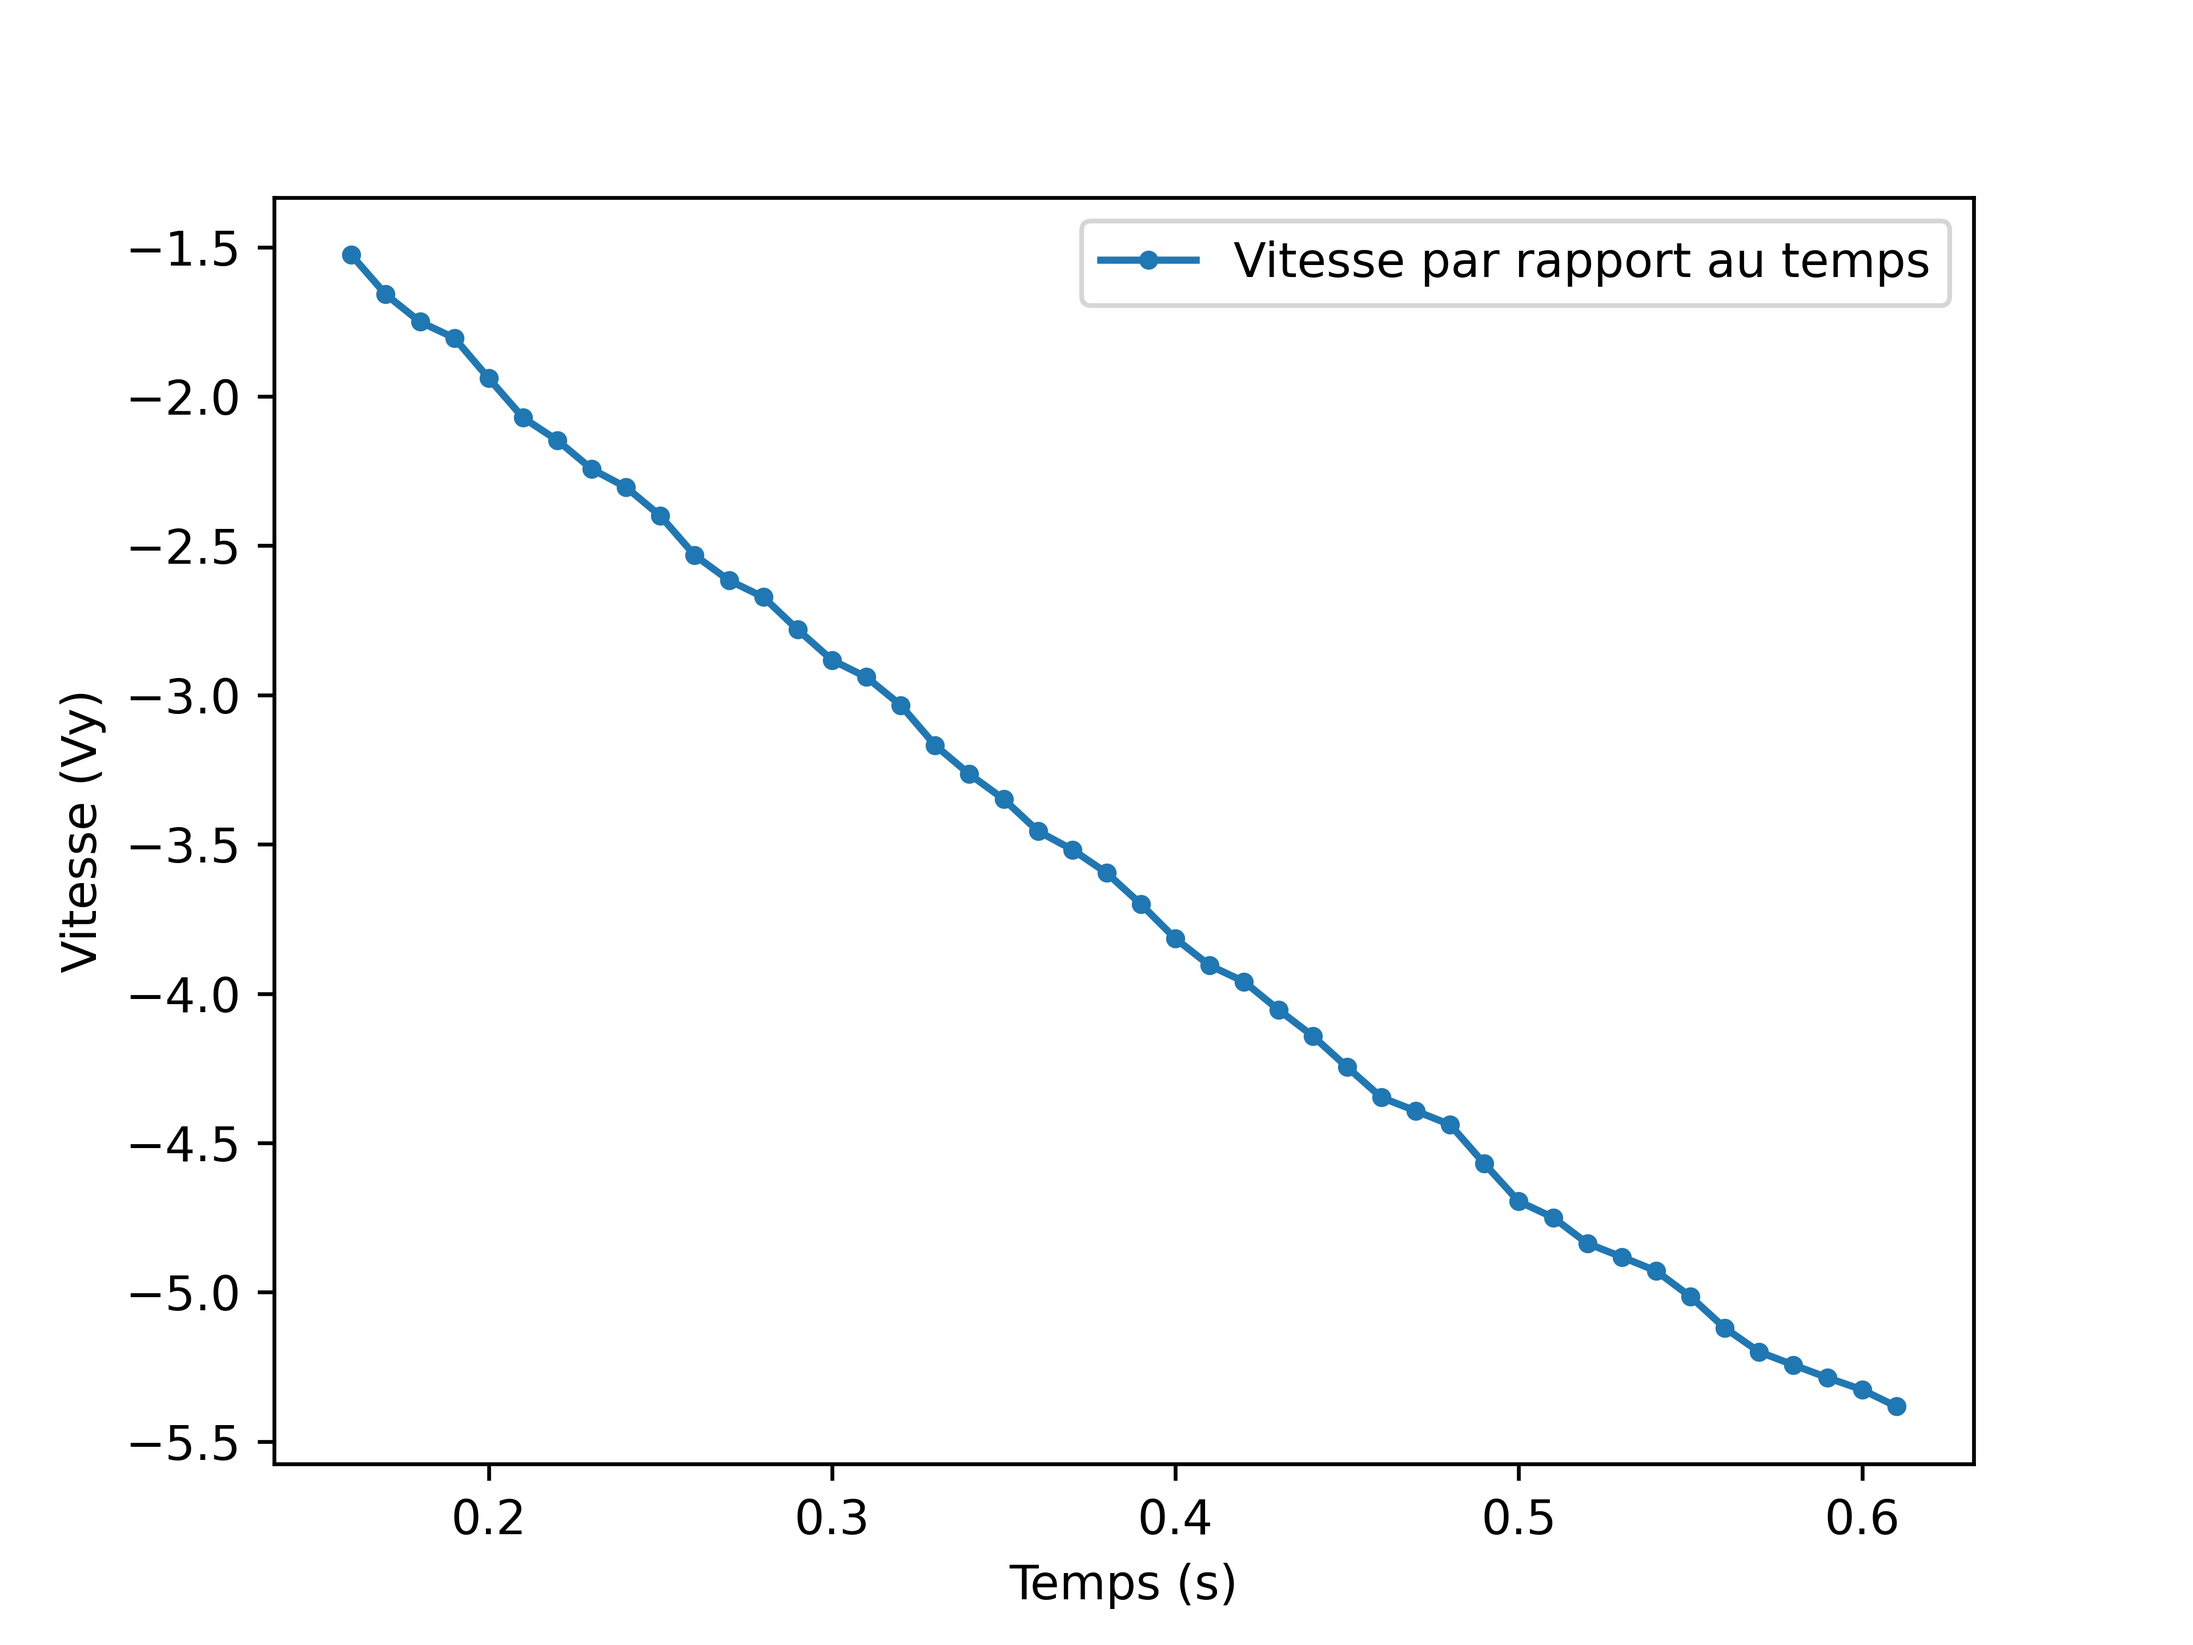
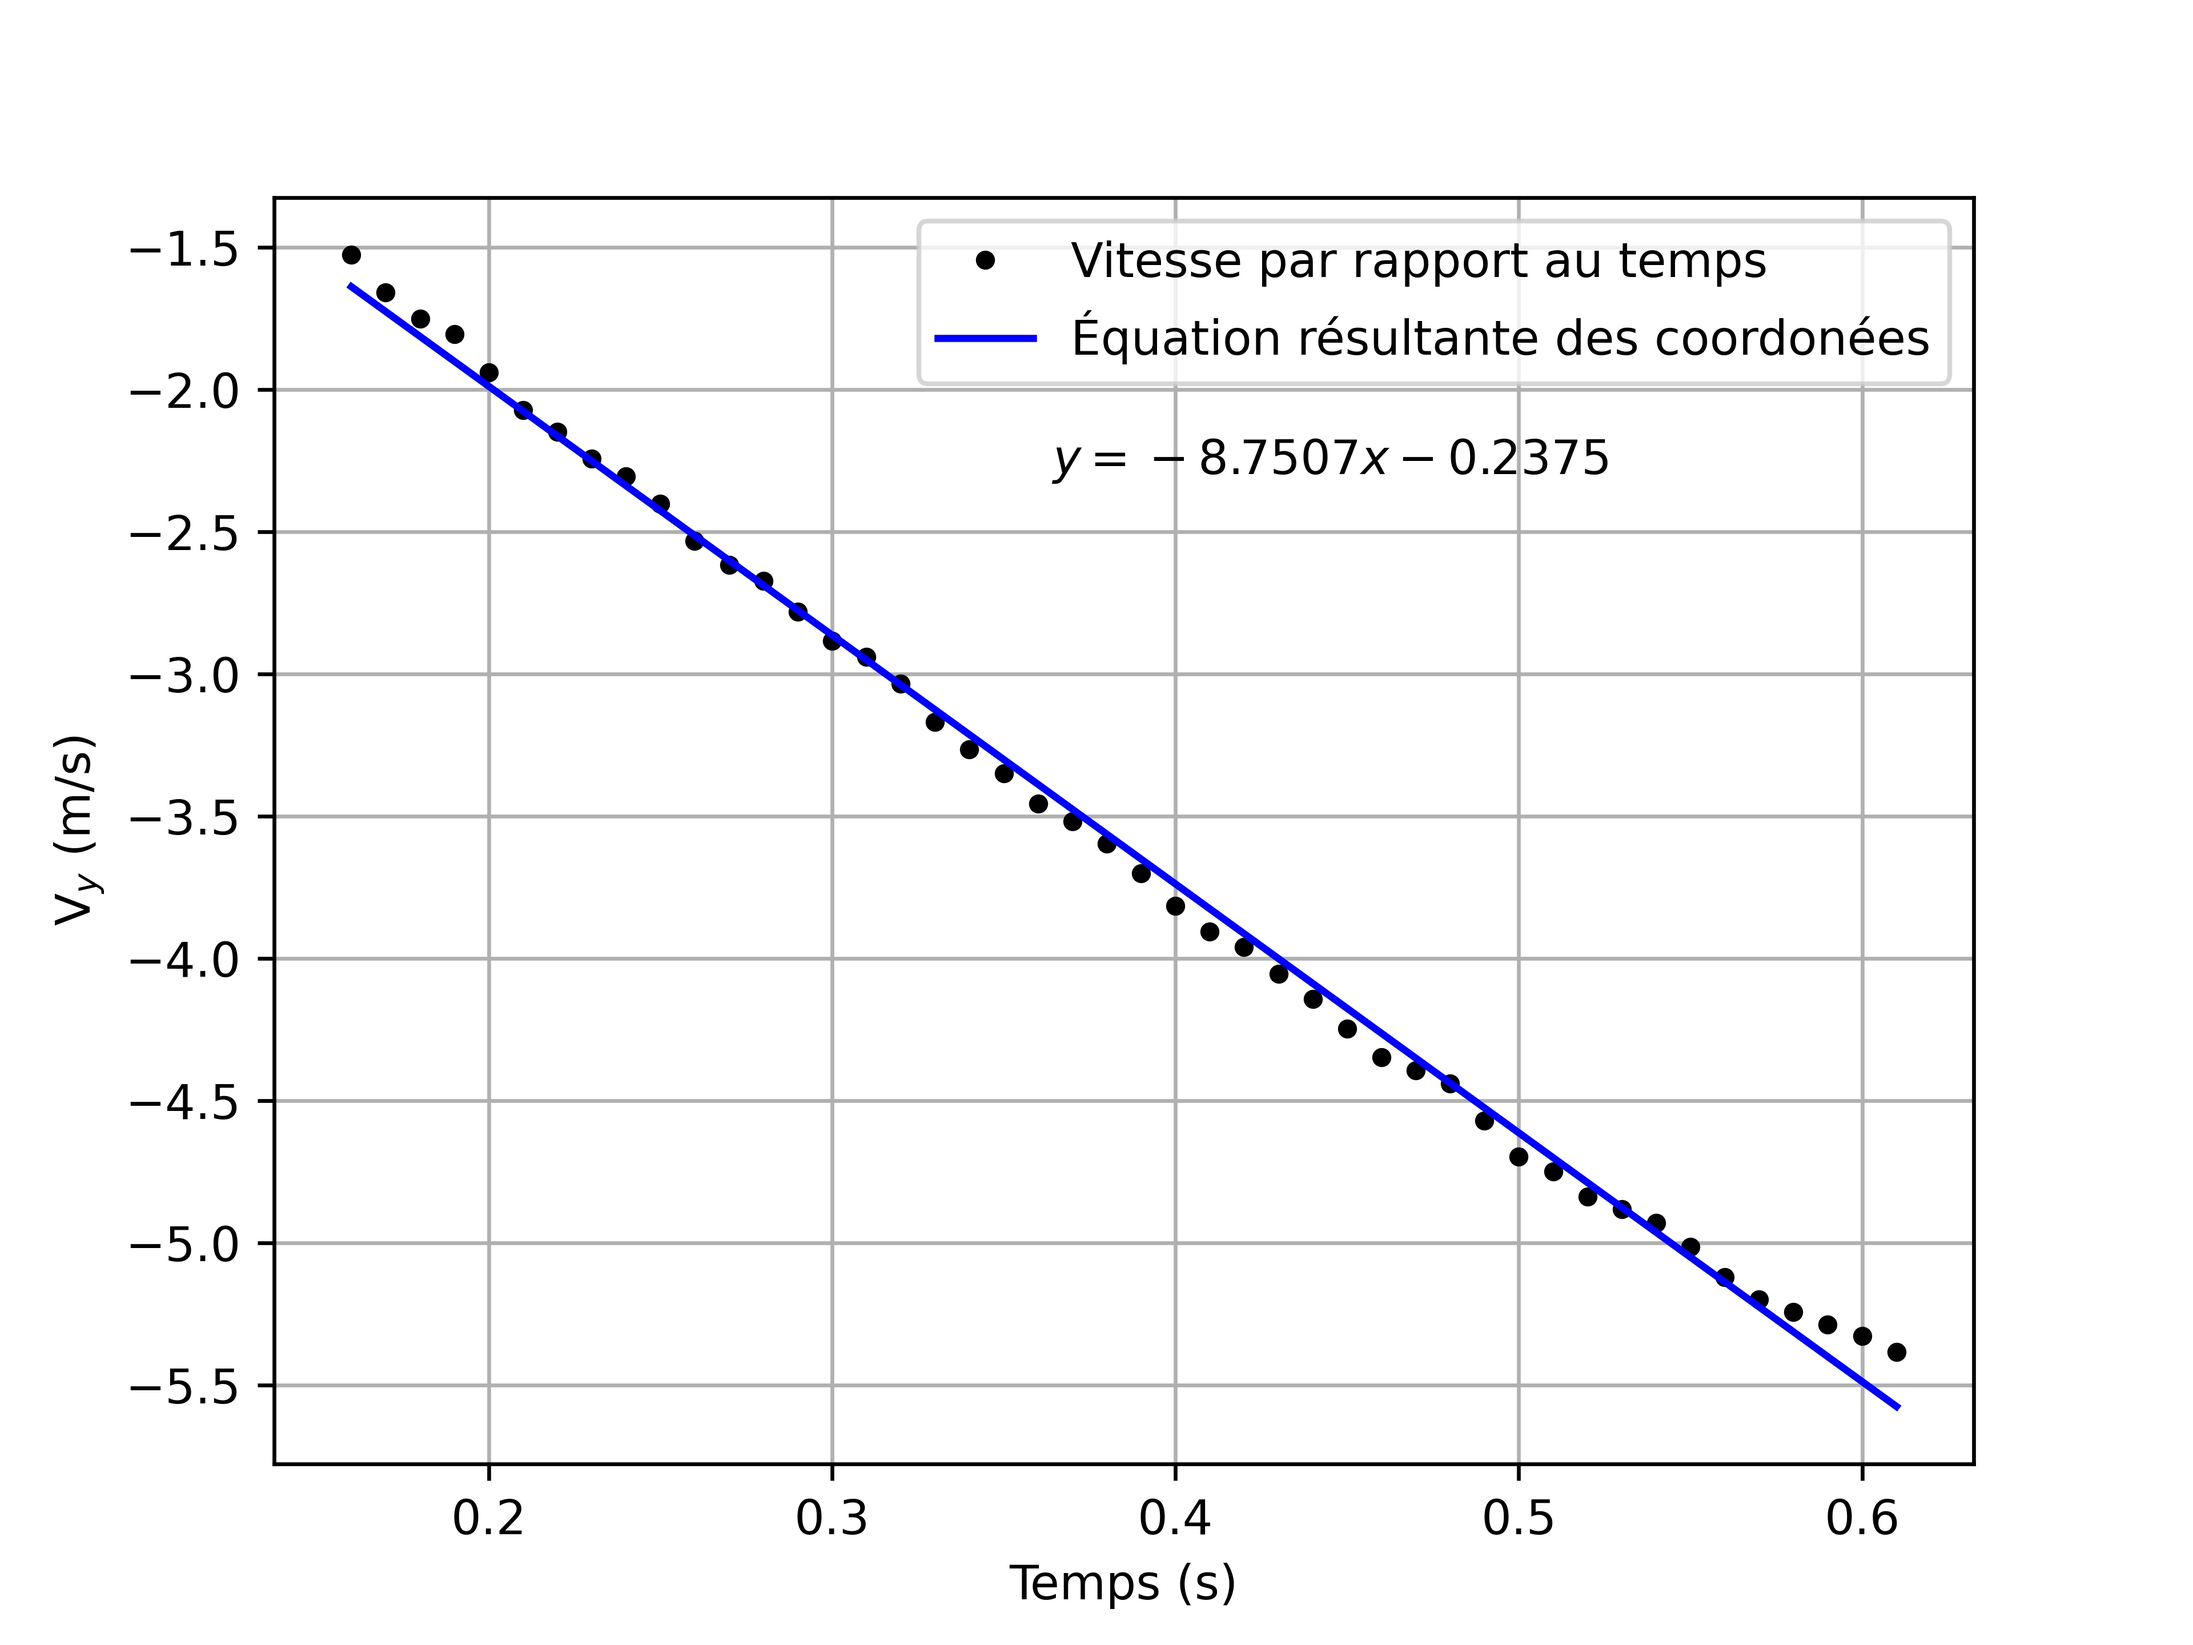
lab chute

diff --git a/Main.py b/Main.py
@@ -2,54 +2,12 @@ from _ast import Lambda
 
 from matplotlib import pyplot as plt
 import math
+import numpy as np
 
-x = [0.16,
-     0.17,
-     0.18,
-     0.19,
-     0.2,
-     0.21,
-     0.22,
-     0.23,
-     0.24,
-     0.25,
-     0.26,
-     0.27,
-     0.28,
-     0.29,
-     0.3,
-     0.31,
-     0.32,
-     0.33,
-     0.34,
-     0.35,
-     0.36,
-     0.37,
-     0.38,
-     0.39,
-     0.4,
-     0.41,
-     0.42,
-     0.43,
-     0.44,
-     0.45,
-     0.46,
-     0.47,
-     0.48,
-     0.49,
-     0.5,
-     0.51,
-     0.52,
-     0.53,
-     0.54,
-     0.55,
-     0.56,
-     0.57,
-     0.58,
-     0.59,
-     0.6,
-     0.61,
-     ]
+from scipy.optimize import curve_fit
+
+x = np.linspace(0.16, 0.61, num=46)
+
 
 y = [-1.526,
      -1.658,
@@ -98,9 +56,26 @@ y = [-1.526,
      -5.327,
      -5.383,
      ]
+
+y2 = -8.7507*x-0.2375
+
+# opt, pcov = curve_fit(gaus, x1, y1, p0=[1, mean, sigma])
+# a, mu, sigma = popt
+# delta_a, delta_mu, delta_sigma = np.sqrt(np.diag(pcov))
+# # R^2
+# residuals = y1 - gaus(x1, *popt)
+# ss_res = np.sum(residuals**2)
+# ss_tot = np.sum((y1-np.mean(y1))**2)
+# r_squared = 1 - (ss_res / ss_tot)
+
+
 plt.figure(1)
-plt.plot(x, y, marker='o', markersize=3, label='Vitesse par rapport au temps')
+plt.plot(x, y, color='k', marker='o', markersize=3, linewidth=0, label='Vitesse par rapport au temps')
+plt.plot(x, y2, color="blue", label='Équation résultante des coordonées')
 plt.xlabel('Temps (s)')
-plt.ylabel('Vitesse (Vy)')
+plt.ylabel('V$_y$ (m/s)')
 plt.legend()
+plt.grid()
+plt.text(0.445, -2.25,'$y = -8.7507x-0.2375$', horizontalalignment='center',
+     verticalalignment='center')
 plt.savefig('num4.jpg', dpi=600)

diff --git a/graph_helper.py b/graph_helper.py
@@ -1,5 +1,7 @@
-from matplotlib.ticker import (MultipleLocator, FormatStrFormatter,
-                               AutoMinorLocator)
+from turtle import pd
+from matplotlib import pyplot as plt
+import curve_fit as curve_fit
+from matplotlib.ticker import (MultipleLocator, FormatStrFormatter, AutoMinorLocator)
 import glob
 import numpy as np
 
@@ -19,3 +21,26 @@ def get_data(path, delimiter):
         allData.append(data)
         allData = np.asarray(allData)
         return allData
+
+
+popt, pcov = curve_fit(gaus, x1, y1, p0=[1, mean, sigma])
+a, mu, sigma = popt
+delta_a, delta_mu, delta_sigma = np.sqrt(np.diag(pcov))
+# R^2
+residuals = y1 - gaus(x1, *popt)
+ss_res = np.sum(residuals**2)
+ss_tot = np.sum((y1-np.mean(y1))**2)
+r_squared = 1 - (ss_res / ss_tot)
+
+def gaus(x, a, x0, sigma):
+    return a*np.exp(-(x-x0)**2/(2*sigma**2))
+
+fit_param = []
+
+## Fig1
+df1 = pd.read_csv('gaussien.csv', sep=";", header=1)
+x1 = df1.to_numpy().T[0].astype(float)
+y1 = df1.to_numpy().T[1].astype(float)
+
+x1_fit = np.linspace(x1[0], x1[-1], 1000)
+plt.plot(x1_fit, gaus(x1_fit, *popt), linewidth=0.5, alpha=0.75, color='C0')
